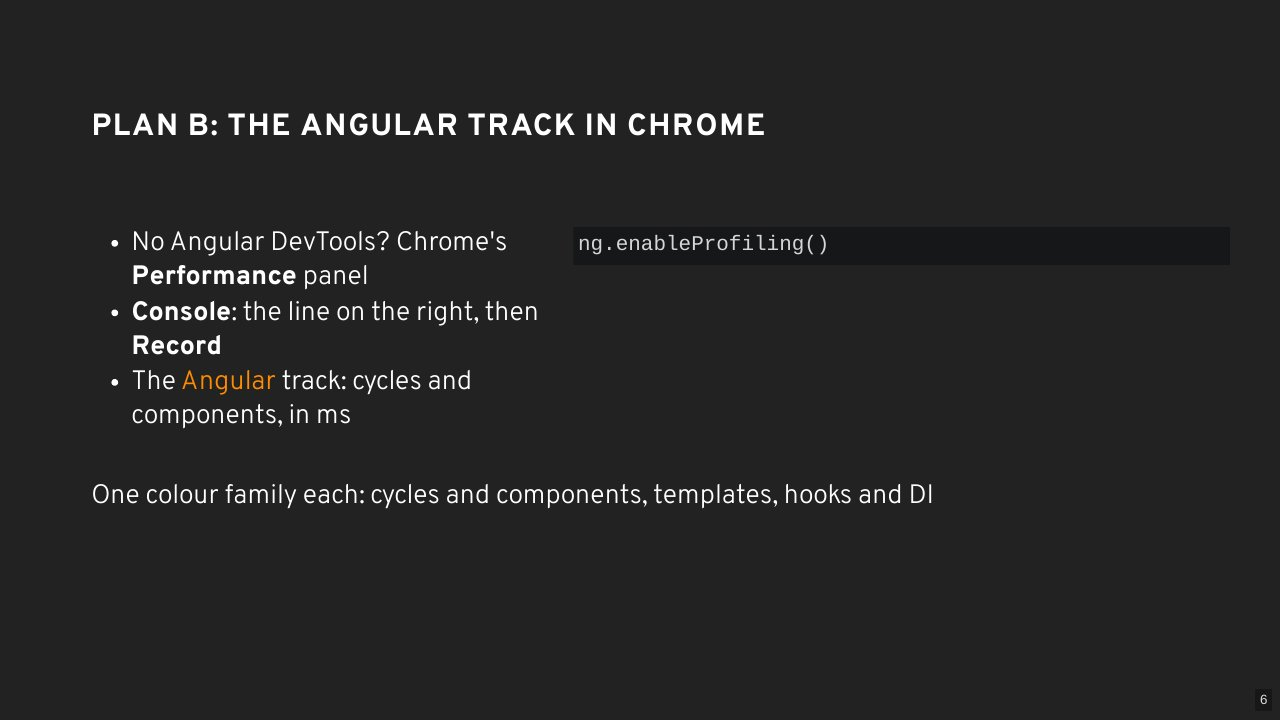
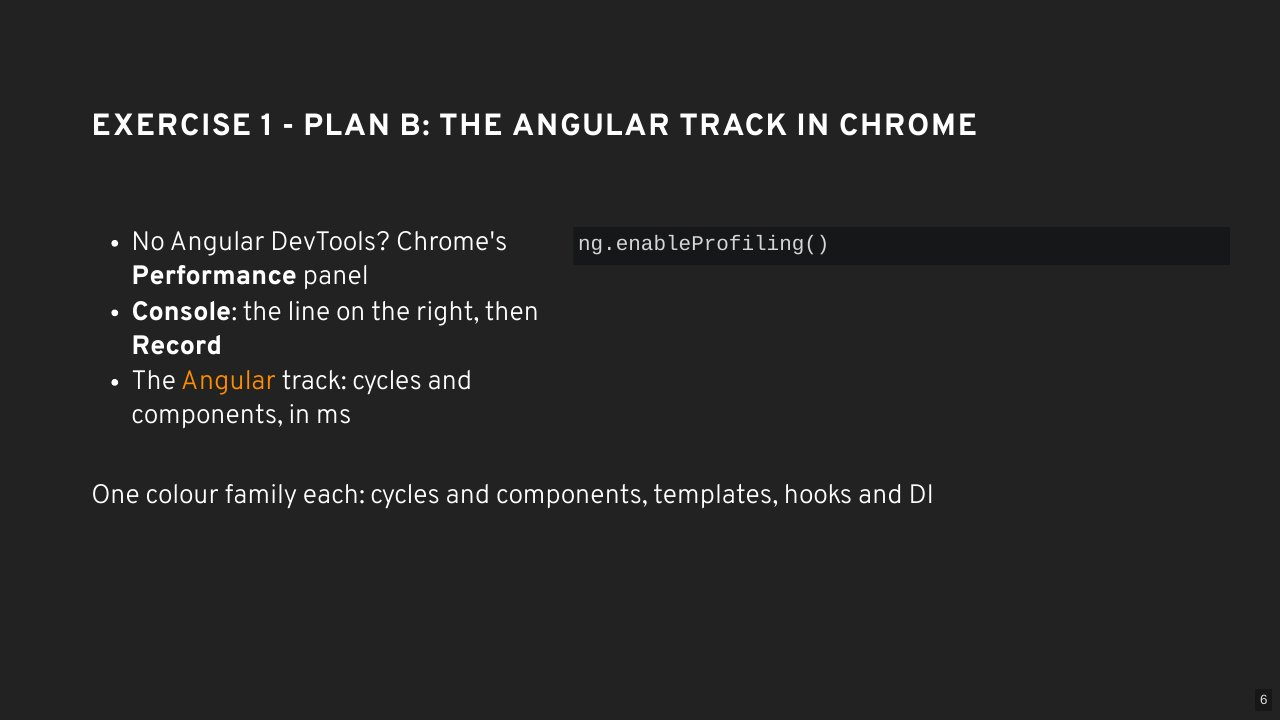
Preview the exercise titles

Changed region(s): [[0.0625, 0.1528, 0.7812, 0.2139]]

diff --git a/README.md b/README.md
@@ -96,7 +96,7 @@ Rendered from PR #24 (branch `performance`) with the slides theme from PR #25. 5
 
 </details>
 
-## 6. Plan B: the Angular track in Chrome
+## 6. Exercise 1 - Plan B: the Angular track in Chrome
 
 `chrome-performance-angular-track.html` · type `claim-code`
 
@@ -132,7 +132,7 @@ Rendered from PR #24 (branch `performance`) with the slides theme from PR #25. 5
 
 </details>
 
-## 8. Running outside zone.js
+## 8. Exercise 1 - Running outside zone.js
 
 `running-outside-zone-js.html` · type `claim-code`
 
@@ -322,11 +322,29 @@ Rendered from PR #24 (branch `performance`) with the slides theme from PR #25. 5
 
 </details>
 
-## 19. Exercise 2 - Measure before
+## 19. Lists: track and computed
+
+`lists-track-and-computed.html` · type `claim-code`
+
+![lists-track-and-computed.html](slides/19-lists-track-and-computed.jpg)
+
+<details><summary>Speaker notes</summary>
+
+> Not a lab: the app already does it right. Numbers from a copy of step-3, dev build, CPU 4x: the server list (new objects, same ids) replaces the cached list.
+> track playground.id: 25.6 ms median, 0 rows created. track playground (object identity): 58.0 ms median, 133 rows destroyed + 133 created.
+>
+> One slide on lists, because every app has one. The list in our app is already done right, so this is to check in yours.
+> @for needs a track expression. It tells Angular which row is which when the list changes. The app tracks by id. When the server answer replaces the cached list, every object is new but the ids are the same, so Angular keeps all 133 rows and only updates bindings: 25.6 milliseconds with the CPU slowed down.
+> Track the object itself, and every new object is a new row: 133 rows destroyed and 133 created, 58 milliseconds. Ask the room: what does your API return on a refresh, the same objects or new ones?
+> Second rule: anything a row derives, put it in a computed, like description and distance here. A method call in a template runs on every check of that row; a computed runs only when what it reads changes.
+
+</details>
+
+## 20. Exercise 2 - Measure before
 
 `exercise-2-measure-before.html` · type `exercise-step`
 
-![exercise-2-measure-before.html](slides/19-exercise-2-measure-before.jpg)
+![exercise-2-measure-before.html](slides/20-exercise-2-measure-before.jpg)
 
 <details><summary>Speaker notes</summary>
 
@@ -338,11 +356,11 @@ Rendered from PR #24 (branch `performance`) with the slides theme from PR #25. 5
 
 </details>
 
-## 20. Exercise 2 - Go zoneless
+## 21. Exercise 2 - Go zoneless
 
 `exercise-2-go-zoneless.html` · type `exercise-step-code`
 
-![exercise-2-go-zoneless.html](slides/20-exercise-2-go-zoneless.jpg)
+![exercise-2-go-zoneless.html](slides/21-exercise-2-go-zoneless.jpg)
 
 <details><summary>Speaker notes</summary>
 
@@ -353,11 +371,11 @@ Rendered from PR #24 (branch `performance`) with the slides theme from PR #25. 5
 
 </details>
 
-## 21. Exercise 2 - Fix the footer with a signal
+## 22. Exercise 2 - Fix the footer with a signal
 
 `exercise-2-fix-the-footer.html` · type `exercise-step-code`
 
-![exercise-2-fix-the-footer.html](slides/21-exercise-2-fix-the-footer.jpg)
+![exercise-2-fix-the-footer.html](slides/22-exercise-2-fix-the-footer.jpg)
 
 <details><summary>Speaker notes</summary>
 
@@ -369,11 +387,11 @@ Rendered from PR #24 (branch `performance`) with the slides theme from PR #25. 5
 
 </details>
 
-## 22. Exercise 2 - What we measured
+## 23. Exercise 2 - What we measured
 
 `exercise-2-zoneless-result.html` · type `exercise-result`
 
-![exercise-2-zoneless-result.html](slides/22-exercise-2-zoneless-result.jpg)
+![exercise-2-zoneless-result.html](slides/23-exercise-2-zoneless-result.jpg)
 
 <details><summary>Speaker notes</summary>
 
@@ -385,11 +403,11 @@ Rendered from PR #24 (branch `performance`) with the slides theme from PR #25. 5
 
 </details>
 
-## 23. Exercise 2 - Remove Eager
+## 24. Exercise 2 - Remove Eager
 
 `exercise-2-remove-eager.html` · type `exercise-step`
 
-![exercise-2-remove-eager.html](slides/23-exercise-2-remove-eager.jpg)
+![exercise-2-remove-eager.html](slides/24-exercise-2-remove-eager.jpg)
 
 <details><summary>Speaker notes</summary>
 
@@ -400,11 +418,11 @@ Rendered from PR #24 (branch `performance`) with the slides theme from PR #25. 5
 
 </details>
 
-## 24. Exercise 2 - Measure after
+## 25. Exercise 2 - Measure after
 
 `exercise-2-measure-after.html` · type `exercise-result`
 
-![exercise-2-measure-after.html](slides/24-exercise-2-measure-after.jpg)
+![exercise-2-measure-after.html](slides/25-exercise-2-measure-after.jpg)
 
 <details><summary>Speaker notes</summary>
 
@@ -414,24 +432,6 @@ Rendered from PR #24 (branch `performance`) with the slides theme from PR #25. 5
 > Click. Quiet: still one bar per second, because the number really does change every second. But click the bar: only FooterComponent. Before, that tick checked all six components and 133 rows.
 > Click. And the build: polyfills from 35 kilobytes to 494 bytes. main is practically the same, so the saving is zone.js itself.
 > Click. The list click is still two bars, and the first one checks everything. That's not the signals failing. Look at app.routes.ts: the empty path and ':id' are two route entries that both show HomeComponent. Going from one to the other, the router destroys Home and builds a new one, and a new Home renders all 133 rows. Ask the room: what happens on a second click, from one playground to another? Same route entry, so Home is reused, and that bar checks 2 rows: the one you left and the one you picked.
-
-</details>
-
-## 25. Lists: track and computed
-
-`lists-track-and-computed.html` · type `claim-code`
-
-![lists-track-and-computed.html](slides/25-lists-track-and-computed.jpg)
-
-<details><summary>Speaker notes</summary>
-
-> Not a lab: the app already does it right. Numbers from a copy of step-3, dev build, CPU 4x: the server list (new objects, same ids) replaces the cached list.
-> track playground.id: 25.6 ms median, 0 rows created. track playground (object identity): 58.0 ms median, 133 rows destroyed + 133 created.
->
-> One slide on lists, because every app has one. The list in our app is already done right, so this is to check in yours.
-> @for needs a track expression. It tells Angular which row is which when the list changes. The app tracks by id. When the server answer replaces the cached list, every object is new but the ids are the same, so Angular keeps all 133 rows and only updates bindings: 25.6 milliseconds with the CPU slowed down.
-> Track the object itself, and every new object is a new row: 133 rows destroyed and 133 created, 58 milliseconds. Ask the room: what does your API return on a refresh, the same objects or new ones?
-> Second rule: anything a row derives, put it in a computed, like description and distance here. A method call in a template runs on every check of that row; a computed runs only when what it reads changes.
 
 </details>
 
@@ -730,7 +730,7 @@ Rendered from PR #24 (branch `performance`) with the slides theme from PR #25. 5
 
 </details>
 
-## 43. What holds the old DOM
+## 43. Exercise 4 - What holds the old DOM
 
 `what-holds-the-old-dom.html` · type `claim-image`
 
@@ -748,7 +748,7 @@ Rendered from PR #24 (branch `performance`) with the slides theme from PR #25. 5
 
 </details>
 
-## 44. Cleaning up with DestroyRef
+## 44. Exercise 4 - Cleaning up with DestroyRef
 
 `cleaning-up-with-destroyref.html` · type `claim-code`
 
